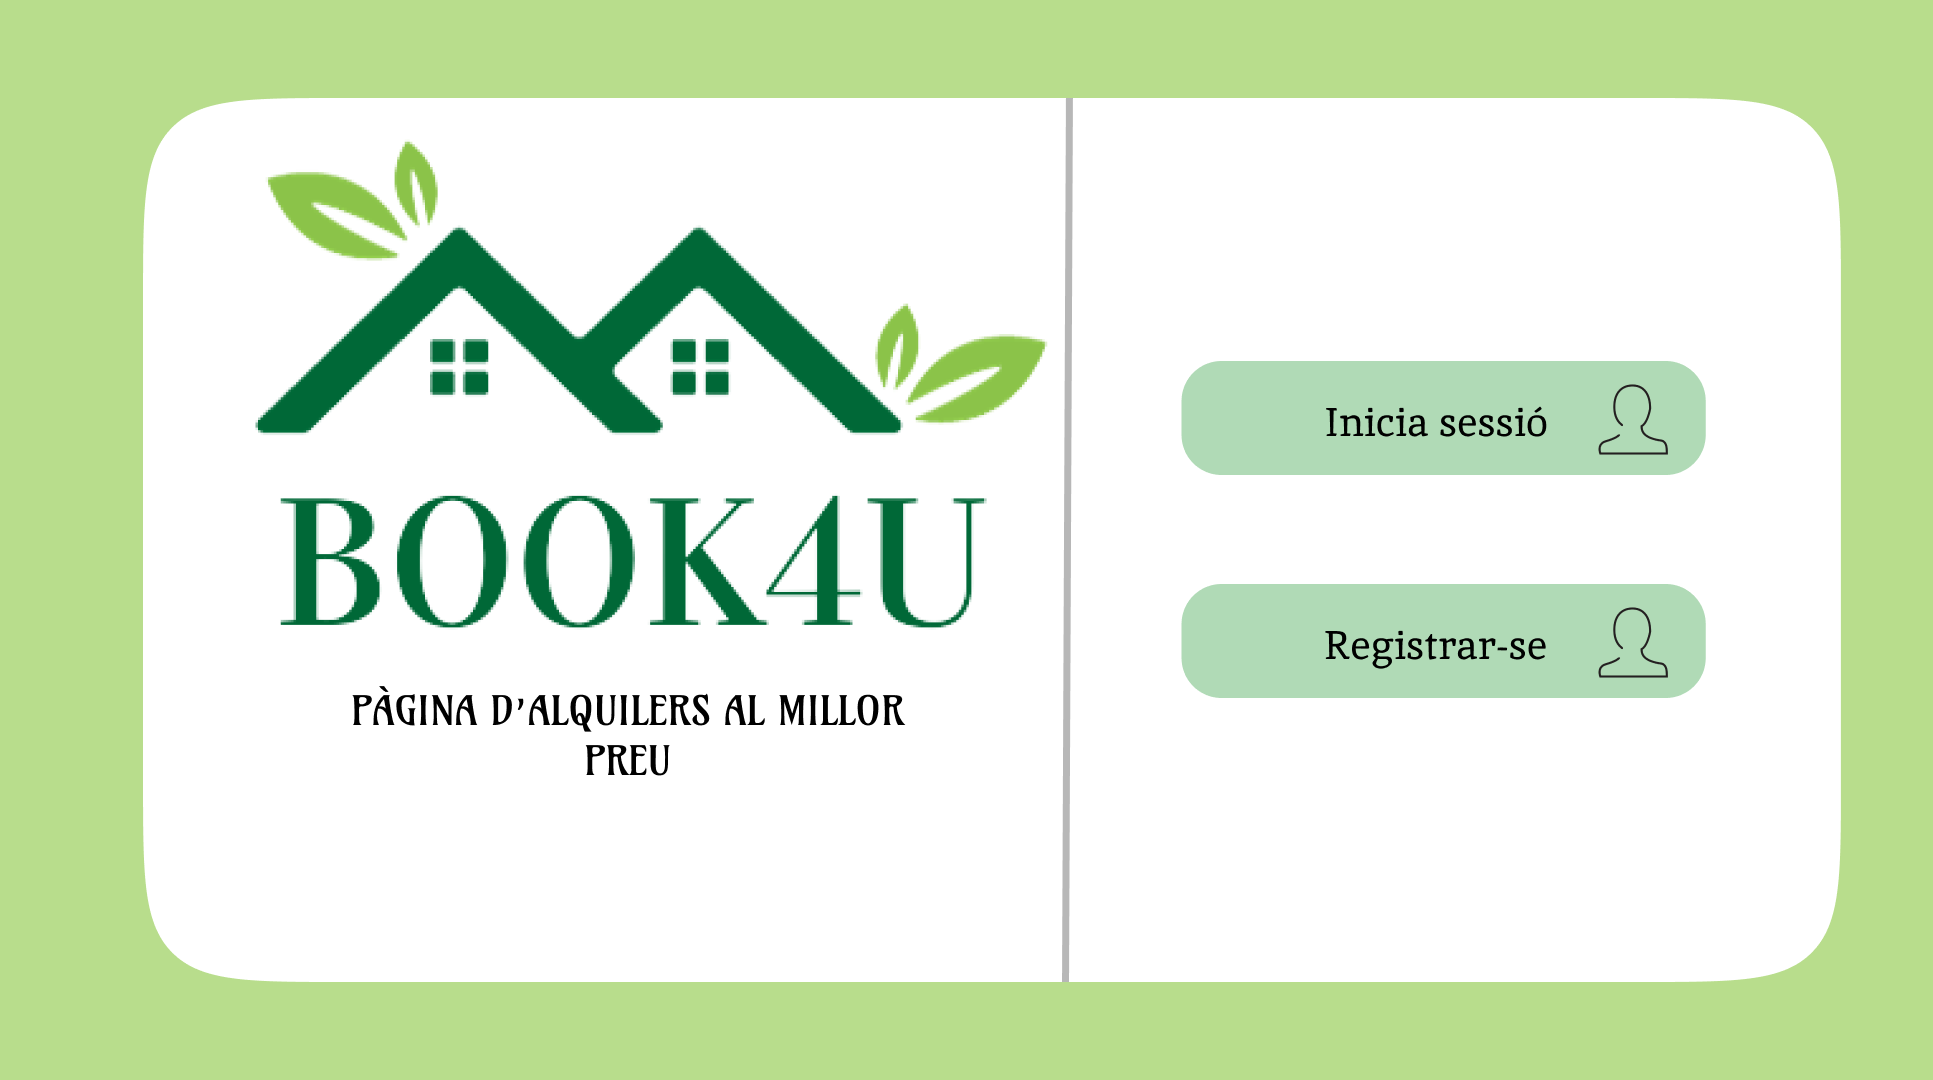
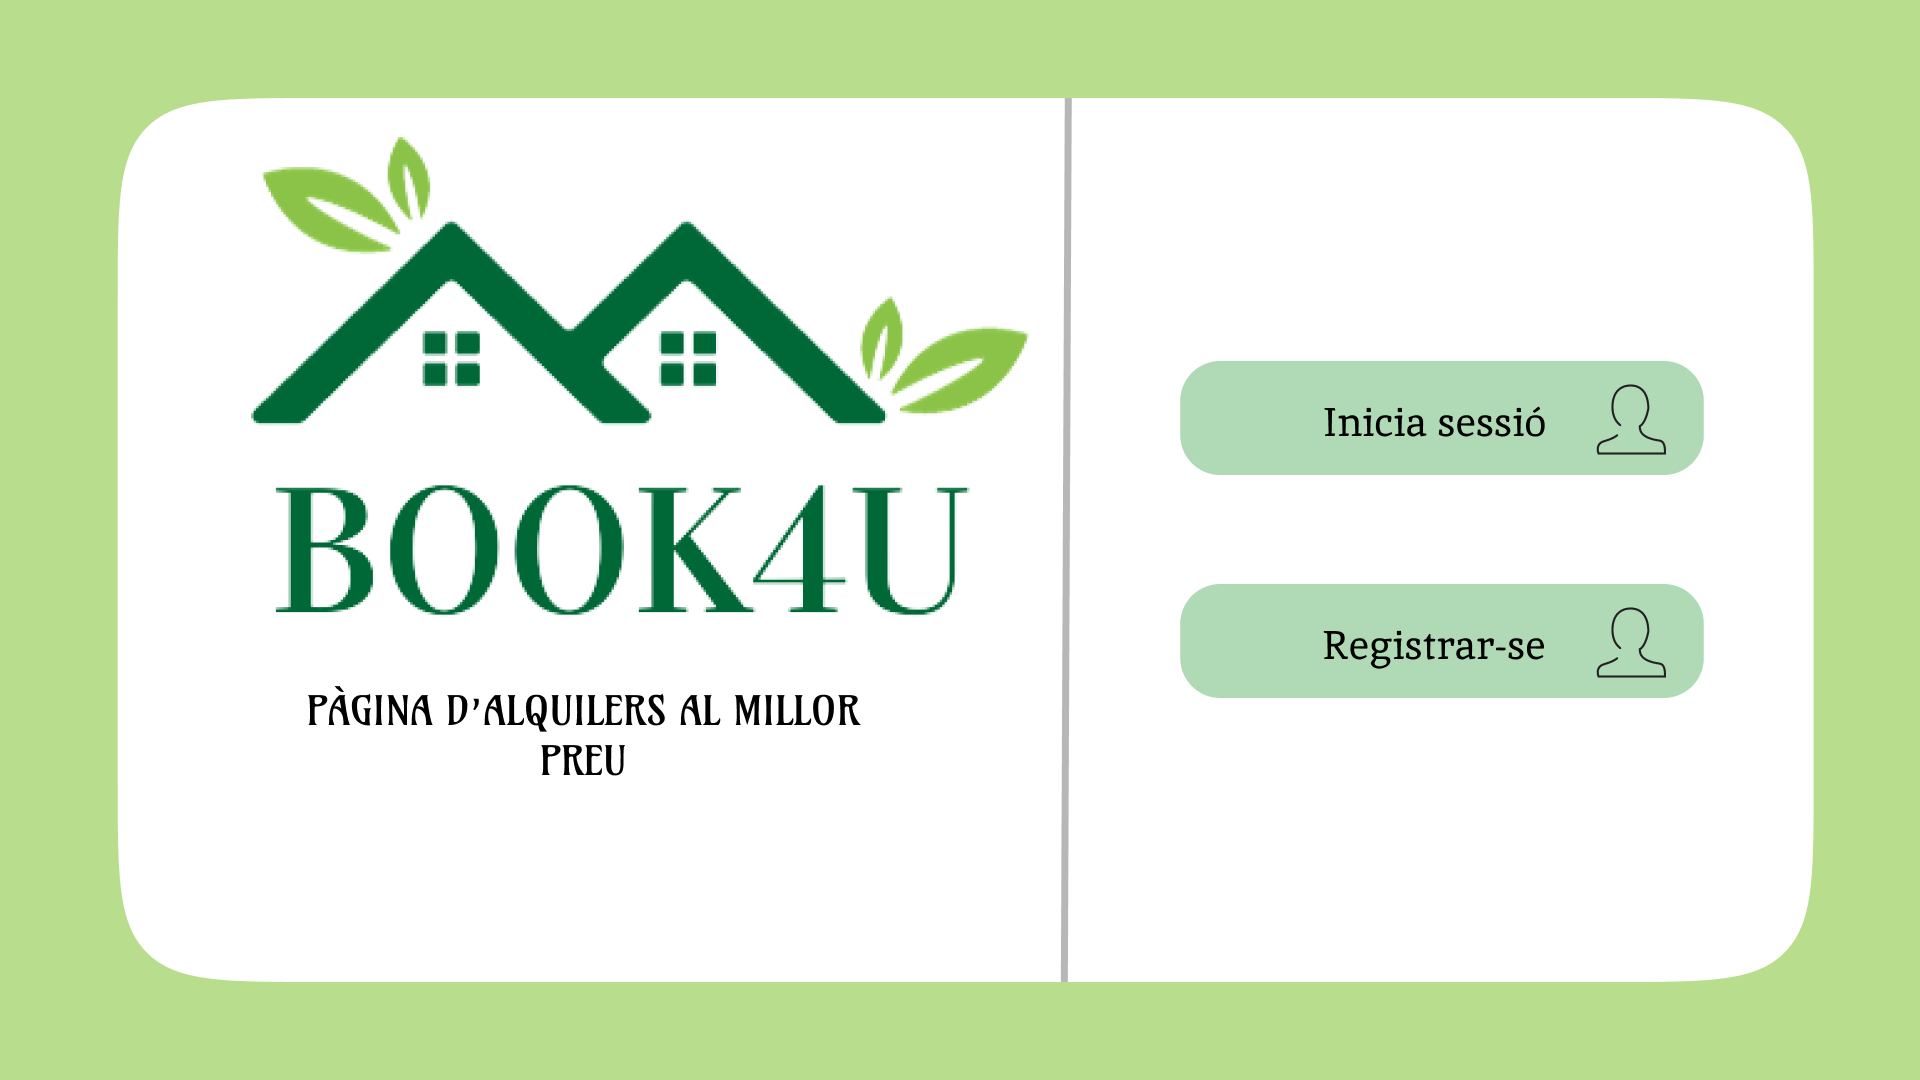
Add files via upload

diff --git a/BOOK4U/src/book4u/PaginaInicial.java b/BOOK4U/src/book4u/PaginaInicial.java
@@ -4,6 +4,9 @@
  */
 package book4u;
 
+import javax.swing.JFrame;
+import javax.swing.SwingUtilities;
+
 /**
  *
  * @author xavic
@@ -26,39 +29,66 @@ public class PaginaInicial extends javax.swing.JPanel {
     // <editor-fold defaultstate="collapsed" desc="Generated Code">//GEN-BEGIN:initComponents
     private void initComponents() {
 
-        jButton1 = new javax.swing.JButton();
-        jButton2 = new javax.swing.JButton();
-        jLabel2 = new javax.swing.JLabel();
+        jBotonRegistro = new javax.swing.JButton();
+        jBotonIniciarSesion = new javax.swing.JButton();
+        jFondo = new javax.swing.JLabel();
 
+        setMaximumSize(new java.awt.Dimension(1920, 1080));
+        setPreferredSize(new java.awt.Dimension(1920, 1080));
         setLayout(new org.netbeans.lib.awtextra.AbsoluteLayout());
 
-        jButton1.setIcon(new javax.swing.ImageIcon(getClass().getResource("/img/BOTON Iniciar Sesion.png"))); // NOI18N
-        jButton1.setBorder(null);
-        jButton1.setBorderPainted(false);
-        jButton1.addActionListener(new java.awt.event.ActionListener() {
+        jBotonRegistro.setIcon(new javax.swing.ImageIcon(getClass().getResource("/img/BOTON Registrar-se.png"))); // NOI18N
+        jBotonRegistro.setBorder(javax.swing.BorderFactory.createEmptyBorder(1, 1, 1, 1));
+        jBotonRegistro.setBorderPainted(false);
+        jBotonRegistro.setContentAreaFilled(false);
+        jBotonRegistro.setCursor(new java.awt.Cursor(java.awt.Cursor.HAND_CURSOR));
+        jBotonRegistro.addActionListener(new java.awt.event.ActionListener() {
             public void actionPerformed(java.awt.event.ActionEvent evt) {
-                jButton1ActionPerformed(evt);
+                jBotonRegistroActionPerformed(evt);
             }
         });
-        add(jButton1, new org.netbeans.lib.awtextra.AbsoluteConstraints(1170, 350, 530, 130));
+        add(jBotonRegistro, new org.netbeans.lib.awtextra.AbsoluteConstraints(1180, 580, 530, -1));
+        jBotonRegistro.getAccessibleContext().setAccessibleParent(jFondo);
 
-        jButton2.setIcon(new javax.swing.ImageIcon(getClass().getResource("/img/BOTON Registrar-se.png"))); // NOI18N
-        jButton2.setBorder(null);
-        jButton2.setBorderPainted(false);
-        add(jButton2, new org.netbeans.lib.awtextra.AbsoluteConstraints(1170, 580, 530, -1));
+        jBotonIniciarSesion.setIcon(new javax.swing.ImageIcon(getClass().getResource("/img/BOTON Iniciar Sesion.png"))); // NOI18N
+        jBotonIniciarSesion.setBorder(null);
+        jBotonIniciarSesion.setBorderPainted(false);
+        jBotonIniciarSesion.setContentAreaFilled(false);
+        jBotonIniciarSesion.setCursor(new java.awt.Cursor(java.awt.Cursor.HAND_CURSOR));
+        jBotonIniciarSesion.addActionListener(new java.awt.event.ActionListener() {
+            public void actionPerformed(java.awt.event.ActionEvent evt) {
+                jBotonIniciarSesionActionPerformed(evt);
+            }
+        });
+        add(jBotonIniciarSesion, new org.netbeans.lib.awtextra.AbsoluteConstraints(1180, 350, 530, 130));
 
-        jLabel2.setIcon(new javax.swing.ImageIcon(getClass().getResource("/img/PaginaInicial.png"))); // NOI18N
-        add(jLabel2, new org.netbeans.lib.awtextra.AbsoluteConstraints(-7, -50, 1980, 1170));
+        jFondo.setIcon(new javax.swing.ImageIcon(getClass().getResource("/img/PaginaInicial.png"))); // NOI18N
+        jFondo.setMaximumSize(new java.awt.Dimension(1920, 1080));
+        jFondo.setMinimumSize(new java.awt.Dimension(1920, 1080));
+        jFondo.setPreferredSize(new java.awt.Dimension(1920, 1080));
+        add(jFondo, new org.netbeans.lib.awtextra.AbsoluteConstraints(0, 0, 1920, 1080));
     }// </editor-fold>//GEN-END:initComponents
 
-    private void jButton1ActionPerformed(java.awt.event.ActionEvent evt) {//GEN-FIRST:event_jButton1ActionPerformed
+    private void jBotonIniciarSesionActionPerformed(java.awt.event.ActionEvent evt) {//GEN-FIRST:event_jBotonIniciarSesionActionPerformed
         // TODO add your handling code here:
-    }//GEN-LAST:event_jButton1ActionPerformed
+        JFrame marco = (JFrame) SwingUtilities.getWindowAncestor(this);
+        marco.remove(this);
+        marco.add(new PaginaIniciarSesionPanel());
+        marco.setVisible(true);
+    }//GEN-LAST:event_jBotonIniciarSesionActionPerformed
 
+    private void jBotonRegistroActionPerformed(java.awt.event.ActionEvent evt) {//GEN-FIRST:event_jBotonRegistroActionPerformed
+        // TODO add your handling code here:
+        JFrame marco = (JFrame) SwingUtilities.getWindowAncestor(this);
+        marco.remove(this);
+        marco.add(new PaginaRegistroPanel());
+        marco.setVisible(true);
+    }//GEN-LAST:event_jBotonRegistroActionPerformed
+                                             
 
     // Variables declaration - do not modify//GEN-BEGIN:variables
-    private javax.swing.JButton jButton1;
-    private javax.swing.JButton jButton2;
-    private javax.swing.JLabel jLabel2;
+    private javax.swing.JButton jBotonIniciarSesion;
+    private javax.swing.JButton jBotonRegistro;
+    private javax.swing.JLabel jFondo;
     // End of variables declaration//GEN-END:variables
 }

diff --git a/BOOK4U/src/book4u/PaginaRegistroPanel.java b/BOOK4U/src/book4u/PaginaRegistroPanel.java
@@ -26,19 +26,16 @@ public class PaginaRegistroPanel extends javax.swing.JPanel {
     // <editor-fold defaultstate="collapsed" desc="Generated Code">//GEN-BEGIN:initComponents
     private void initComponents() {
 
-        javax.swing.GroupLayout layout = new javax.swing.GroupLayout(this);
-        this.setLayout(layout);
-        layout.setHorizontalGroup(
-            layout.createParallelGroup(javax.swing.GroupLayout.Alignment.LEADING)
-            .addGap(0, 400, Short.MAX_VALUE)
-        );
-        layout.setVerticalGroup(
-            layout.createParallelGroup(javax.swing.GroupLayout.Alignment.LEADING)
-            .addGap(0, 300, Short.MAX_VALUE)
-        );
+        jLabel2 = new javax.swing.JLabel();
+
+        setLayout(new org.netbeans.lib.awtextra.AbsoluteLayout());
+
+        jLabel2.setIcon(new javax.swing.ImageIcon(getClass().getResource("/img/PaginaRegistro.png"))); // NOI18N
+        add(jLabel2, new org.netbeans.lib.awtextra.AbsoluteConstraints(0, 0, -1, -1));
     }// </editor-fold>//GEN-END:initComponents
 
 
     // Variables declaration - do not modify//GEN-BEGIN:variables
+    private javax.swing.JLabel jLabel2;
     // End of variables declaration//GEN-END:variables
 }
